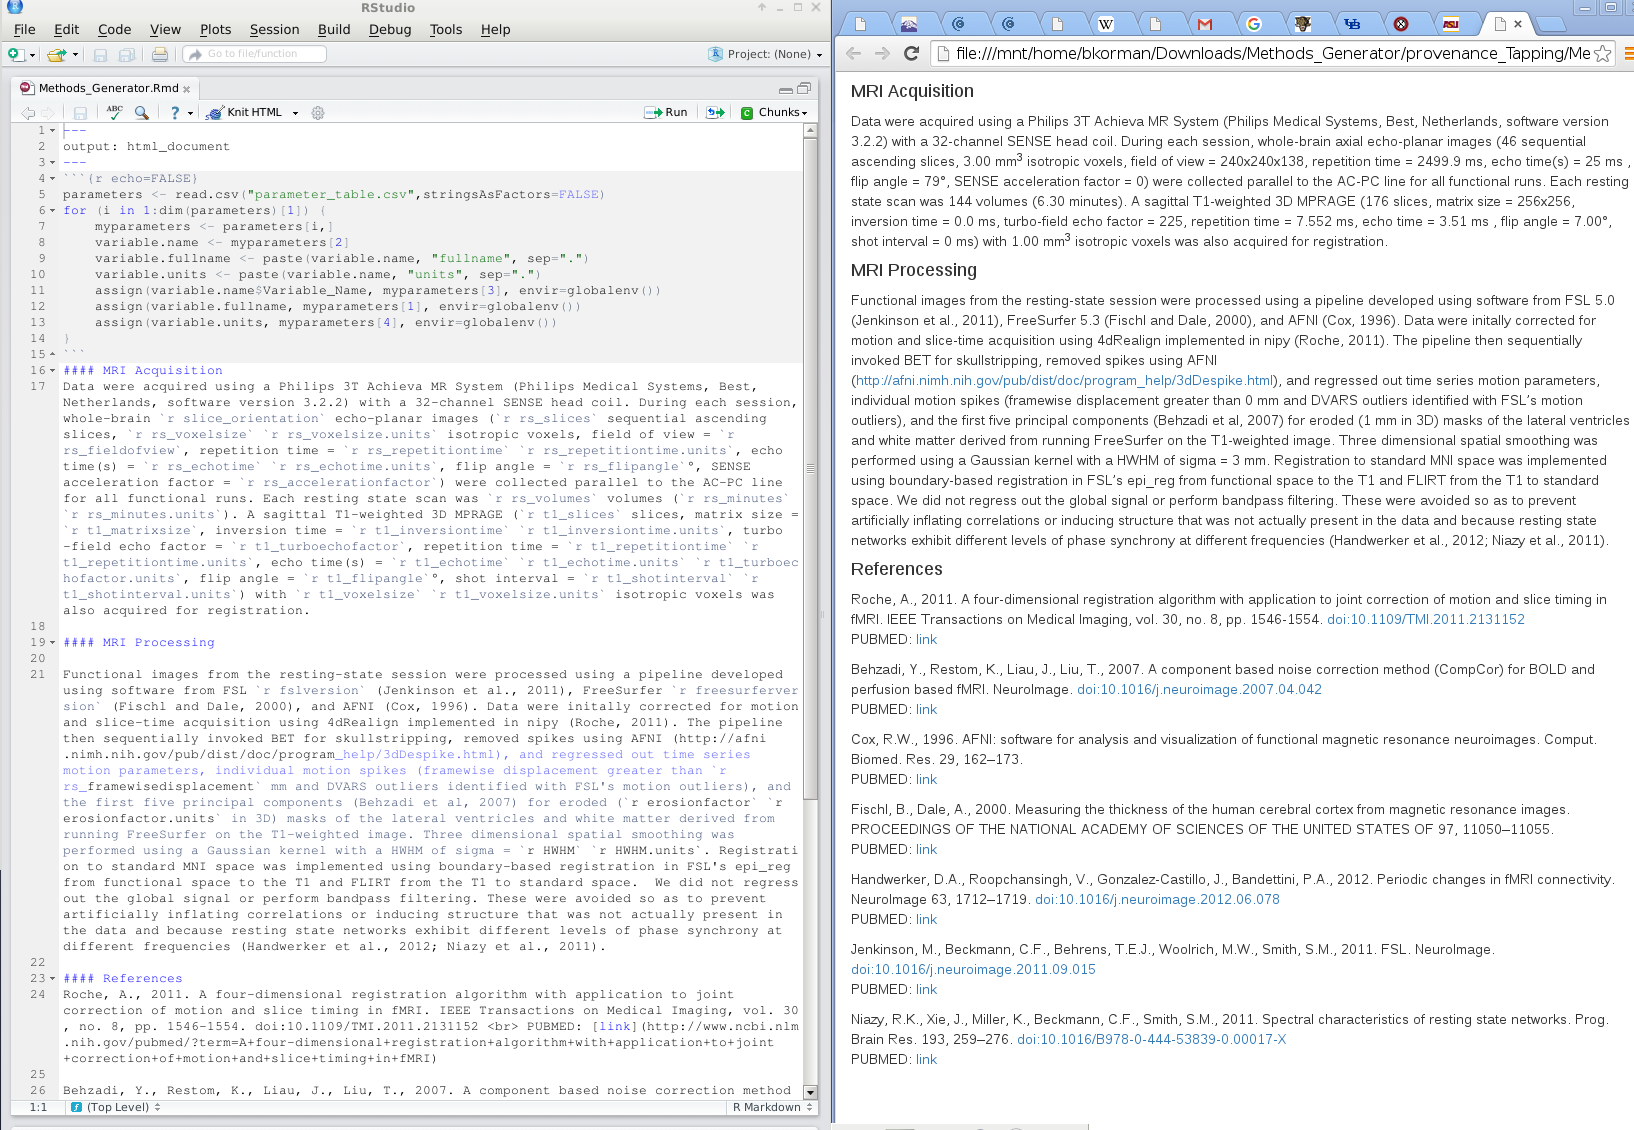
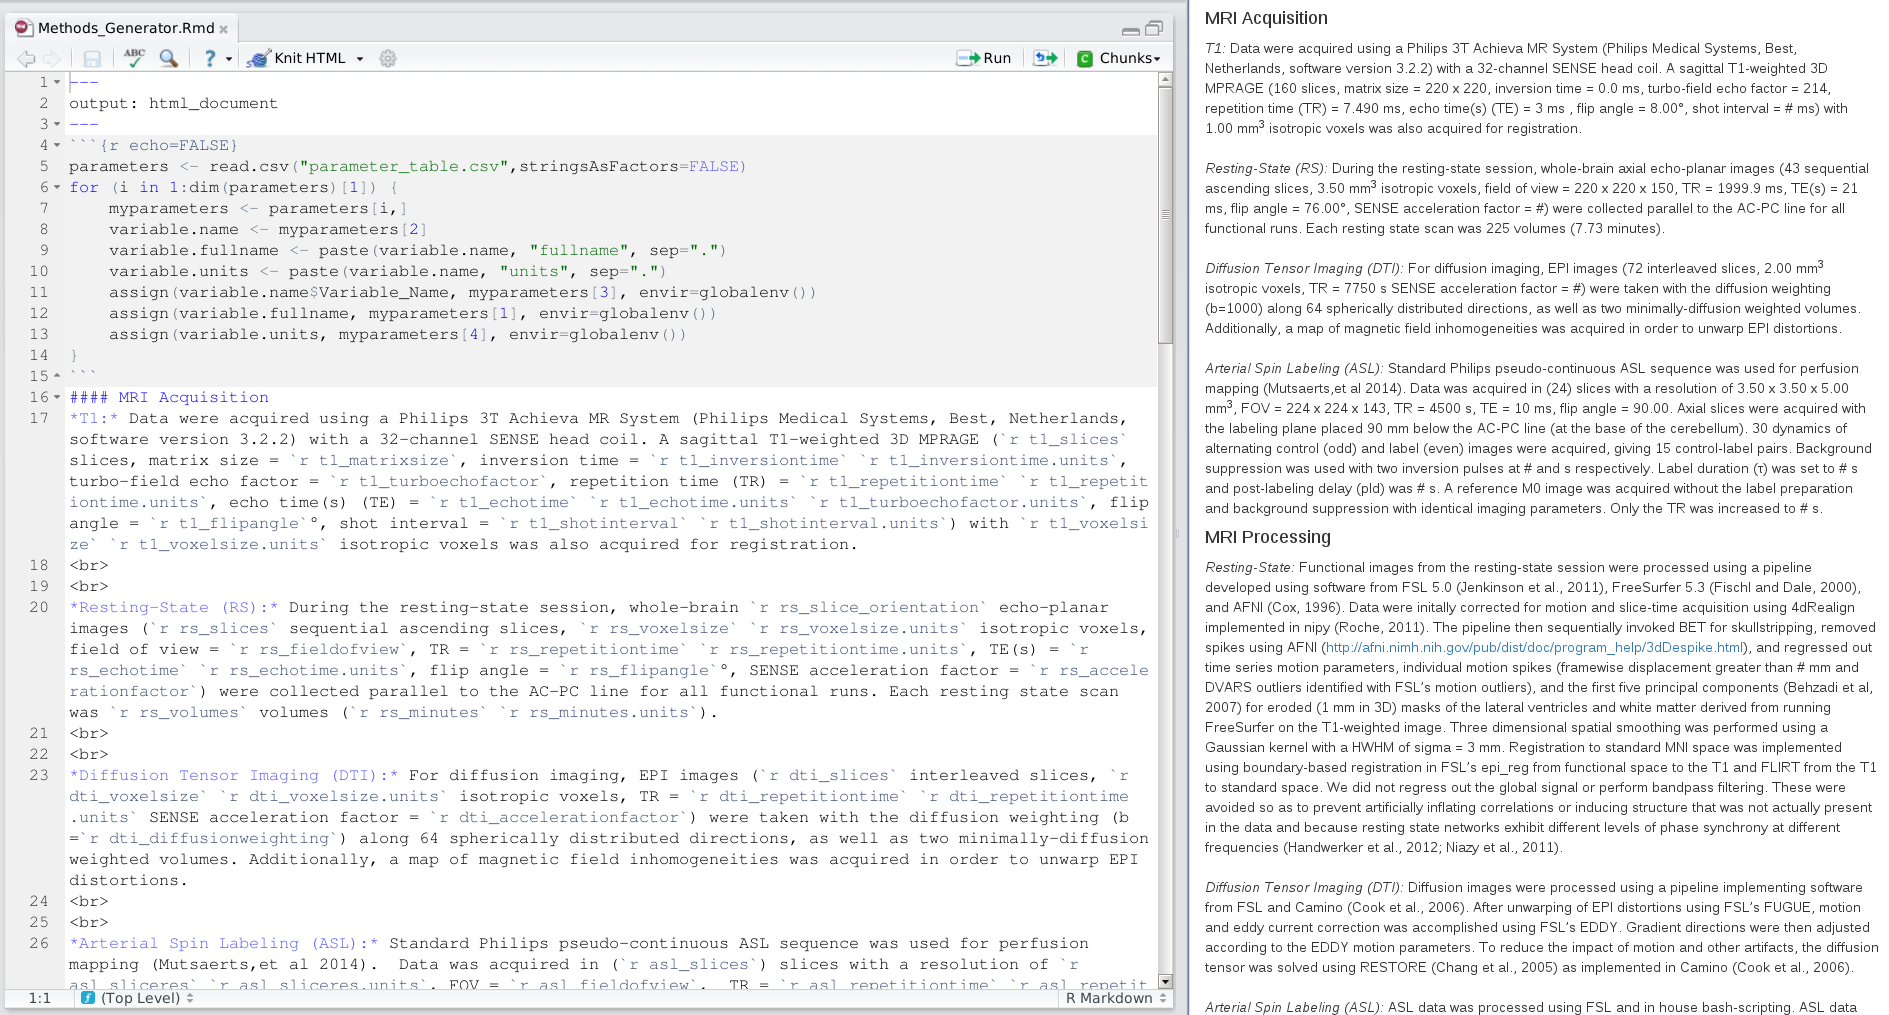
revised tex

Changed region(s): [[0.0, 0.0, 1.0, 1.0]]

diff --git a/Methods-Generator.tex b/Methods-Generator.tex
@@ -4,19 +4,22 @@ This is an example of how to use a makefile to automatically generate a methods 
 
 We do this in two steps. First, important parameters are written to a comma-separated value (CSV) file. These are extracted from wherever appropriate for the study using a \bashn{} shell script. For example, versions of tools such as FSL and AFNI can be obtained from the system. Imaging acquisition parameters can be obtained from the PAR file (a Philips human-readable parameter file), or the DICOMs, or any other exported parameter specification file appropriate to your study. Parameters that are used in the processing pipelines themselves can be obtained from those makefiles. After the CSV file is complete, we render an R Markdown file that loads those values and generates an HTML report. We include PubMed links to references in the R Markdown file so that, if necessary, the links can be used to import bibliographic records into bibliographic software databases. 
 
-The code for this example is in \texttt{testsubject/lib/makefiles/methodsgenerator.mk}.  This example builds upon the other processing pipelines in place for \texttt{testsubject}, and describes the resting state processing pipeline described in \nameref{example:restingstate}.
+The code for this example is in \texttt{testsubject/lib/makefiles/methodsgenerator.mk}.  This example builds upon the other processing pipelines in place for \texttt{testsubject}, \texttt{dti_susceptibility_correction}, and \texttt{ASLTestsubject}. It describes the resting state processing pipeline in \nameref{example:restingstate}, the DTI susceptibility-correction pipeline in \nameref{example:dti}, and the ASL processing pipeline in \nameref{example:asl}.
 
 
 \begin{lstlisting}
-	%*\lnote*rs_parsource=$(wildcard parrecs/*REST*.PAR)
-	t1_parsource=$(wildcard parrecs/*MPRAGE*.PAR)
-	
-	%*\lnote*rs_framewisedisplacement=0
-	rs_accelerationfactor=0
-	t1_shotinterval=0
+	%*\lnote*rs_framewisedisplacement="\#"
+	rs_accelerationfactor="\#"
+	t1_shotinterval="\#"
+	dti_accelerationfactor="\#"
+	asl_invertpulse1="\#"
+	asl_invertpulse2="\#"
+	asl_labelduration="\#"
+	asl_postlabeldelay="\#"
+	asl_M0_repetitiontime="\#"
 \end{lstlisting}
 
-This makefile begins by \lnum{1} searching for and selecting the PAR source files from which the makefile will acquire the majority of the generated methods section's parameter values. Because the naming conventions for the PAR files do not often follow a specific pattern, we use a wildcard to search for a string we are sure will be in the file name. \lnum{2} Not all of the necessary parameter values are available in PAR files, so there are few parameters that must be set (by replacing the 0's specified for these values). Here we wish to report framewise displacement and acceleration factor used during resting-state data acquisition as well as the shot interval during the T1 anatomical scan acquisition. This makefile currently reports only parameters important to resting-state data and preprocessing but may be expanded to include other MRI techniques as well (e.g. diffusion tensor imaging and arterial spin labeling).
+This makefile begins by \lnum{1} searching for and selecting the PAR source files from which the makefile will acquire the majority of the generated methods section's parameter values. Because the naming conventions for the PAR files do not often follow a specific pattern, we use a wildcard to search for a string we are sure will be in the file name. \lnum{2} Not all of the necessary parameter values are available in PAR files, so there are few parameters that must be set (by replacing the #'s specified for these values). Here we wish to report framewise displacement and acceleration factor used during resting-state data acquisition as well as the shot interval during the T1 anatomical scan acquisition along with parameters important for diffusion tensor imaging (DTI) and arterial spin labeling (ASL) processing. This makefile currently reports parameters important to resting-state, DTI, and ASL data and preprocessing but may be expanded to include other MRI techniques as well (e.g. voxel-based morphometry and susceptibility-weighted imaging).
 
 \newpage
 
@@ -34,11 +37,9 @@ This makefile begins by \lnum{1} searching for and selecting the PAR source file
 		echo "Creating provenance directory" ;\
 		mkdir -p provenance
 		
-	%*\lnote*provenance/parameter_table.csv: provenancedir $(rs_parsource) $(t1_parsource)
+	%*\lnote*provenance/parameter_table.csv: provenancedir $(rs_parsource) $(t1_parsource) $(dti_parsource) $(asl_parsource)
 		echo "Creating parameter table" ;\
-		bash $(PROJECT_HOME)/bin/Methods_Generator.sh  $(rs_parsource) \
-		$(t1_parsource) $(rs_framewisedisplacement) \
-		$(rs_accelerationfactor) $(t1_shotinterval) > $@
+		bash $(PROJECT_HOME)/bin/Methods_Generator.sh  $(rs_parsource) $(t1_parsource) $(dti_parsource) $(asl_parsource) $(rs_framewisedisplacement) $(rs_accelerationfactor) $(t1_shotinterval) $(dti_accelerationfactor) $(asl_invertpulse1) $(asl_invertpulse2) $(asl_labelduration) $(asl_postlabeldelay) $(asl_M0_repetitiontime) > $@
 \end{lstlisting}
 
 \lnum{5} This target creates a data provenance subdirectory to keep our project directory clean and organized. The files generated by this makefile will be stored in this folder. \lnum{6} Once a methods specific subdirectory has been created it is time to extract the parameter values we wish to include in our methods section from their respective PAR files and tabulate them appropriately. This is done by \lnum{7} calling a \bashn{} script which generates a table including the parameters' name (both an abbreviated form as well as a long form), value, and unit of measurement if applicable.
@@ -52,7 +53,7 @@ This makefile begins by \lnum{1} searching for and selecting the PAR source file
 		rmarkdown::render("Methods_Generator.Rmd")'
 \end{lstlisting}
 
-Using the \texttt{parameter_table.csv} file created in the previous step,  an R script is called to incorporate the necessary parameter values into a model methods section R Markdown (.Rmd) file. One thing that is a little frustrating about R Markdown is that it will look for files in the directory in which it is located. This is why we first copy it to the \texttt{provenance} subdirectory. The R Markdown file then looks for the CSV file in the current working directory, with no need to pass paths back and forth between programs. 
+Using the \texttt{parameter_table.csv} file created in the previous step, an R script is called to incorporate the necessary parameter values into a model methods section R Markdown (.Rmd) file. One thing that is a little frustrating about R Markdown is that it will look for files in the directory in which it is located. This is why we first copy it to the \texttt{provenance} subdirectory. The R Markdown file then looks for the CSV file in the current working directory, with no need to pass paths back and forth between programs. 
 
 The outputted methods section HTML file can be viewed in any web browser. Figure \autoref{fig:methods} shows the R Markdown code that is processed (on the left) to generate the HTML report (on the right). The R Markdown code is very simple. The first ``chunk'' of code reads in the CSV file and uses the short variable names to construct a variety of variables for the value of the parameter, its full name, and the units. These are accessed in the text description of the protocol with the syntax \texttt{`r variablename'}. For more information about how to write reports with R Markdown, see their excellent \href{http://rmarkdown.rstudio.com}{documentation}. 
 
